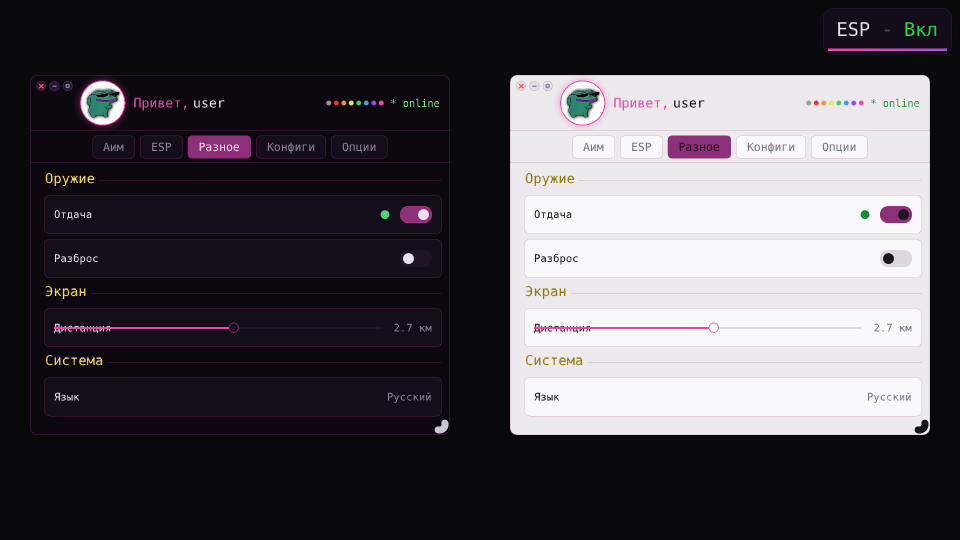
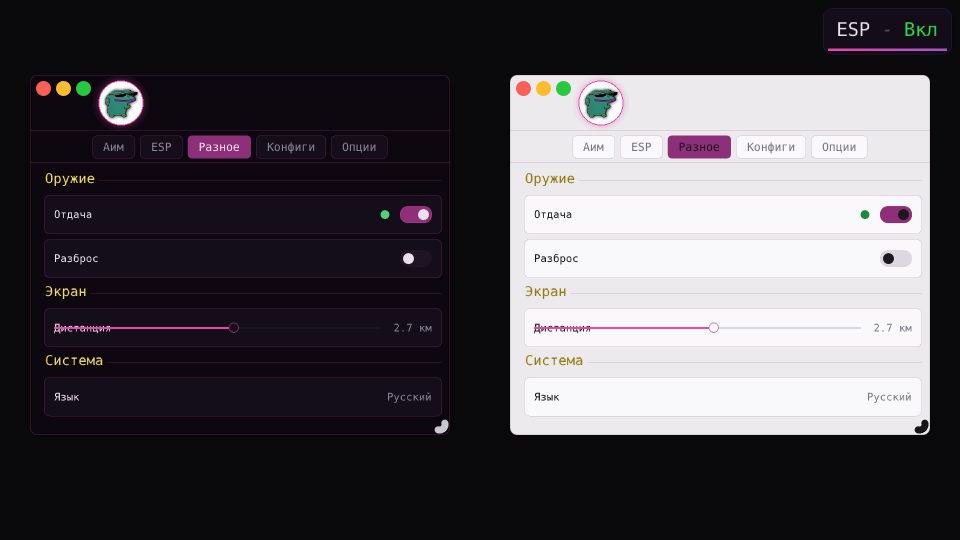
Меню: чистая шапка без текста, классический светофор
Из шапки убран весь текст: «Привет, user», «* online» и ряд из восьми
цветных точек справа (по просьбе игрока). Шапка теперь — только светофор
в углу и кружок видео-аватара r=44 с акцентными ореолами.

Светофор вернул классический вид macOS: три цветных кружка (красная
255,95,87 — закрыть, жёлтая 254,188,46 — свернуть, зелёная 40,200,64 —
развернуть), размер возвращён к 30 px с зазором 10 (были 20/6.7).
Нейтральные тёмные кружки с глифами и окантовкой убраны вместе с
TrafficLightRect (хит-зоны и так не использовались — светофор декор).

Пара «Привет,»->«Hello,» удалена из таблицы переводов (183 пары,
стенд языка прошёл). Строка вкладок, контент, драг за шапку, resize,
тосты и обе темы не изменились. Превью preview_tabs.png обновлено
(28/28 пиксель-проверок).

diff --git a/jni/src/menu.cpp b/jni/src/menu.cpp
@@ -1026,10 +1026,9 @@ static const char* TabTitle(int k) {
     return lang::text(kTabTitlesRu[k]);
 }
 
-// «Светофор»: три кружка по 20 px с зазором 6.7 — та же пропорция, что в
-// macOS (12 px при системном шрифте 13), в 1.5 раза меньше прежних 30/10.
-static const float kTLD   = 20.f;        // диаметр кружка светофора
-static const float kTLGap = 6.7f;        // зазор между кружками
+// «Светофор»: три классических цветных кружка macOS, 30 px с зазором 10.
+static const float kTLD   = 30.f;        // диаметр кружка светофора
+static const float kTLGap = 10.f;        // зазор между кружками
 static const float kTLPad = 12.f;        // отступ светофора от краёв окна
 static const int   kTLN   = 3;           // красный, жёлтый, зелёный
 
@@ -1054,29 +1053,17 @@ static void TrafficLightMetrics(float winW, float& d, float& gap) {
 // InvisibleButton'ов — окно за них таскается как за обычную шапку.
 enum TrafficLightId { TL_CLOSE = 0, TL_MIN, TL_ZOOM };
 
-// Прямоугольник i-й кнопки (квадрат со стороной d + 8 — палец толще кружка).
-static void TrafficLightRect(ImVec2 winPos, float d, float gap, int i, ImVec2& mn, ImVec2& mx) {
-    const float pitch = d + gap;
-    const float cx = winPos.x + kTLPad + i * pitch + d * 0.5f;
-    const float cy = winPos.y + kTLPad + d * 0.5f;
-    const float h  = d * 0.5f + 4.f;
-    mn = {cx - h, cy - h};
-    mx = {cx + h, cy + h};
-}
-
-// Цвета macOS: закрыть, свернуть, развернуть.
+// Цвета macOS: закрыть — красная, свернуть — жёлтая, развернуть — зелёная.
 static ImU32 TrafficLightColor(int i) {
-    // Дизайн «Глубина»: светофор нейтральный — тёмные кружки с глифами;
-    // красным подсвечивается только «закрыть».
     switch (i) {
-        case TL_CLOSE: return IM_COL32(255,  82,  82, 255);
-        case TL_MIN:   return IM_COL32(120, 132, 158, 255);
-        default:       return IM_COL32(120, 132, 158, 255);
+        case TL_CLOSE: return IM_COL32(255,  95,  87, 255);
+        case TL_MIN:   return IM_COL32(254, 188,  46, 255);
+        default:       return IM_COL32( 40, 200,  64, 255);
     }
 }
 
-// Полоса шапки: светофор в углу + кружок видео-аватара (r = 44) + приветствие.
-// Высота — диаметр кружка (88) с полями по 12 сверху и снизу.
+// Полоса шапки: светофор в углу + кружок видео-аватара (r = 44), текста в
+// шапке нет. Высота — диаметр кружка (88) с полями по 12 сверху и снизу.
 static float MenuHeaderH(bool) { return 88.f + 24.f; }
 
 // Где стоит светофор: в САМОМ левом верхнем углу окна.
@@ -1092,25 +1079,9 @@ static void TrafficLight(ImVec2 winPos, float winW) {
     ImDrawList* fg = ImGui::GetForegroundDrawList();
 
     for (int i = 0; i < kTLN; ++i) {
-        ImVec2 mn, mx;
-        TrafficLightRect(winPos, d, gap, i, mn, mx);
-        const ImVec2 c{(mn.x + mx.x) * 0.5f, (mn.y + mx.y) * 0.5f};
-        // Нейтральный кружок с глифом: «–» свернуть, «▢» развернуть, «✕» закрыть.
-        // Глифы рисуются линиями — шрифтовые символы в Roboto непредсказуемы.
-        const float r = d * 0.5f;
-        fg->AddCircleFilled(c, r, C::U(C::El()), 24);
-        fg->AddCircle(c, r, C::U(C::Hair()), 24, 1.f);
-        const ImU32 gcol = TrafficLightColor(i);
-        const float gs = r * 0.42f, th = r * 0.16f + 1.f;
-        if (i == TL_MIN) {
-            fg->AddLine({c.x - gs, c.y}, {c.x + gs, c.y}, gcol, th);
-        } else if (i == TL_ZOOM) {
-            const float q = gs * 0.85f;
-            fg->AddRect({c.x - q, c.y - q}, {c.x + q, c.y + q}, gcol, 2.f, 0, th);
-        } else {
-            fg->AddLine({c.x - gs, c.y - gs}, {c.x + gs, c.y + gs}, gcol, th);
-            fg->AddLine({c.x + gs, c.y - gs}, {c.x - gs, c.y + gs}, gcol, th);
-        }
+        const ImVec2 c{winPos.x + kTLPad + i * (d + gap) + d * 0.5f,
+                       winPos.y + kTLPad + d * 0.5f};
+        fg->AddCircleFilled(c, d * 0.5f, TrafficLightColor(i), 24);
     }
 }
 
@@ -2061,13 +2032,11 @@ void RenderMenu() {
     const float hdrH = MenuHeaderH(false);
 
     {
-        // Шапка в духе референса: светофор в углу, правее кружок видео-аватара,
-        // затем «Привет, user»; справа — ряд цветных точек и «* online».
+        // Шапка: светофор в углу и кружок видео-аватара, текста в шапке нет —
+        // «Привет, user», «* online» и ряд цветных точек убраны.
         auto*  cdl = ImGui::GetWindowDrawList();
         auto   hp  = ImGui::GetWindowPos();
-        auto*  fnH = ImGui::GetFont();
         const float hH  = hdrH;
-        const float gFS = ImGui::GetFontSize() * 1.10f;
 
         // Светофор — в самом левом верхнем углу окна.
         TrafficLight(TrafficLightPos(g_win.pos, false), WW);
@@ -2076,37 +2045,12 @@ void RenderMenu() {
         const float tlW = kTLPad + TrafficLightW(d, gap2);
 
         // Кружок видео-аватара правее светофора, по центру полосы шапки.
-        // (Раньше он жил в левой панели вкладок; панель заменена единой
-        // строкой вкладок, и кружок вернулся в шапку — уменьшенным, r = 44.)
         const float avR  = 44.f;
         const float avCx = hp.x + tlW + 16.f + avR;
         const float avCy = hp.y + hH * 0.5f;
         cdl->AddCircleFilled({avCx, avCy}, avR + 12.f, C::UA(C::Acc(), 0.06f), 48);
         cdl->AddCircleFilled({avCx, avCy}, avR +  6.f, C::UA(C::Acc(), 0.10f), 48);
         VidAvatar::Draw(cdl, avCx, avCy, avR, dt, C::U(C::Acc()), C::U(C::Bg()));
-
-        const float cy = hp.y + (hH - gFS) * 0.5f;
-        float tx = avCx + avR + 18.f;
-        const char* greet = XS("Привет,");
-        auto gsz = fnH->CalcTextSizeA(gFS, FLT_MAX, 0, greet);
-        cdl->AddText(fnH, gFS, {tx, cy}, C::U(C::Acc()), greet);
-        cdl->AddText(fnH, gFS, {tx + gsz.x + 8.f, cy}, C::U(C::Txt()), "user");
-
-        // Правый блок: восемь цветных точек статуса + «* online».
-        const float oFS = ImGui::GetFontSize() * 0.85f;
-        auto osz = fnH->CalcTextSizeA(oFS, FLT_MAX, 0, "* online");
-        const float right = hp.x + WW - Layout::PadX;
-        cdl->AddText(fnH, oFS, {right - osz.x, hp.y + (hH - oFS) * 0.5f}, C::U(C::Green()), "* online");
-        static const ImVec4 kDots[8] = {
-            {0.60f, 0.60f, 0.60f, 1.f}, {0.90f, 0.20f, 0.20f, 1.f},
-            {0.90f, 0.60f, 0.20f, 1.f}, {0.90f, 0.90f, 0.30f, 1.f},
-            {0.30f, 0.80f, 0.30f, 1.f}, {0.30f, 0.60f, 0.90f, 1.f},
-            {0.60f, 0.30f, 0.90f, 1.f}, {0.90f, 0.30f, 0.70f, 1.f},
-        };
-        const float dr = 5.f, dstep = 15.f;
-        const float dx = right - osz.x - 14.f - 7.f * dstep - dr;
-        for (int i = 0; i < 8; ++i)
-            cdl->AddCircleFilled({dx + i * dstep, hp.y + hH * 0.5f}, dr, C::U(kDots[i]), 12);
 
         // Неоновая линия под шапкой отделяет её от строки вкладок.
         cdl->AddLine({hp.x, hp.y + hH - 1.f}, {hp.x + WW, hp.y + hH - 1.f}, C::U(C::Hair()), 1.f);

diff --git a/tools/lang/gen_tables.py b/tools/lang/gen_tables.py
@@ -223,7 +223,6 @@ UI_EN = {
     # короткие слова для тостов: значение в тосте обязано быть коротким
     'Вкл': 'On', 'Выкл': 'Off',
     # шапка меню в стиле референса (CheatMenu.cpp)
-    'Привет,': 'Hello,',
     # вкладки
     'Меню': 'Menu', 'Разное': 'Misc', 'Конфиги': 'Configs', 'Опции': 'Options',
 }
